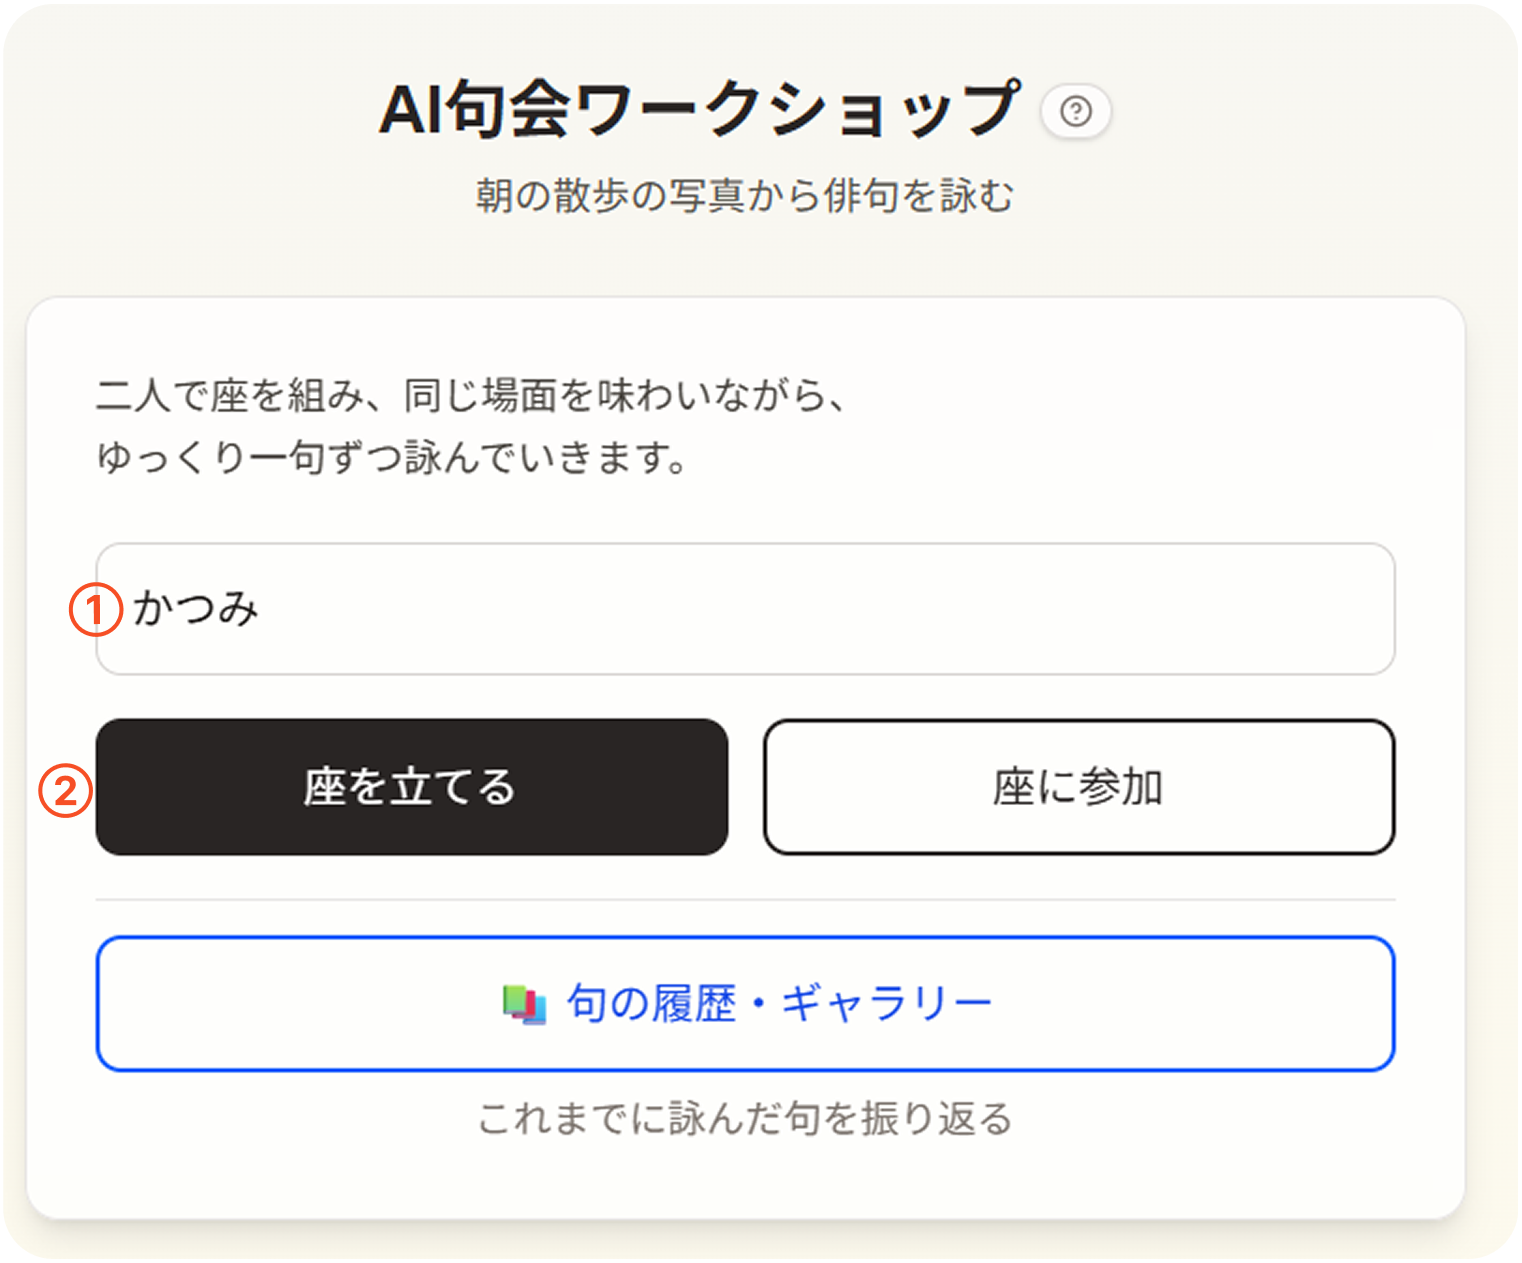
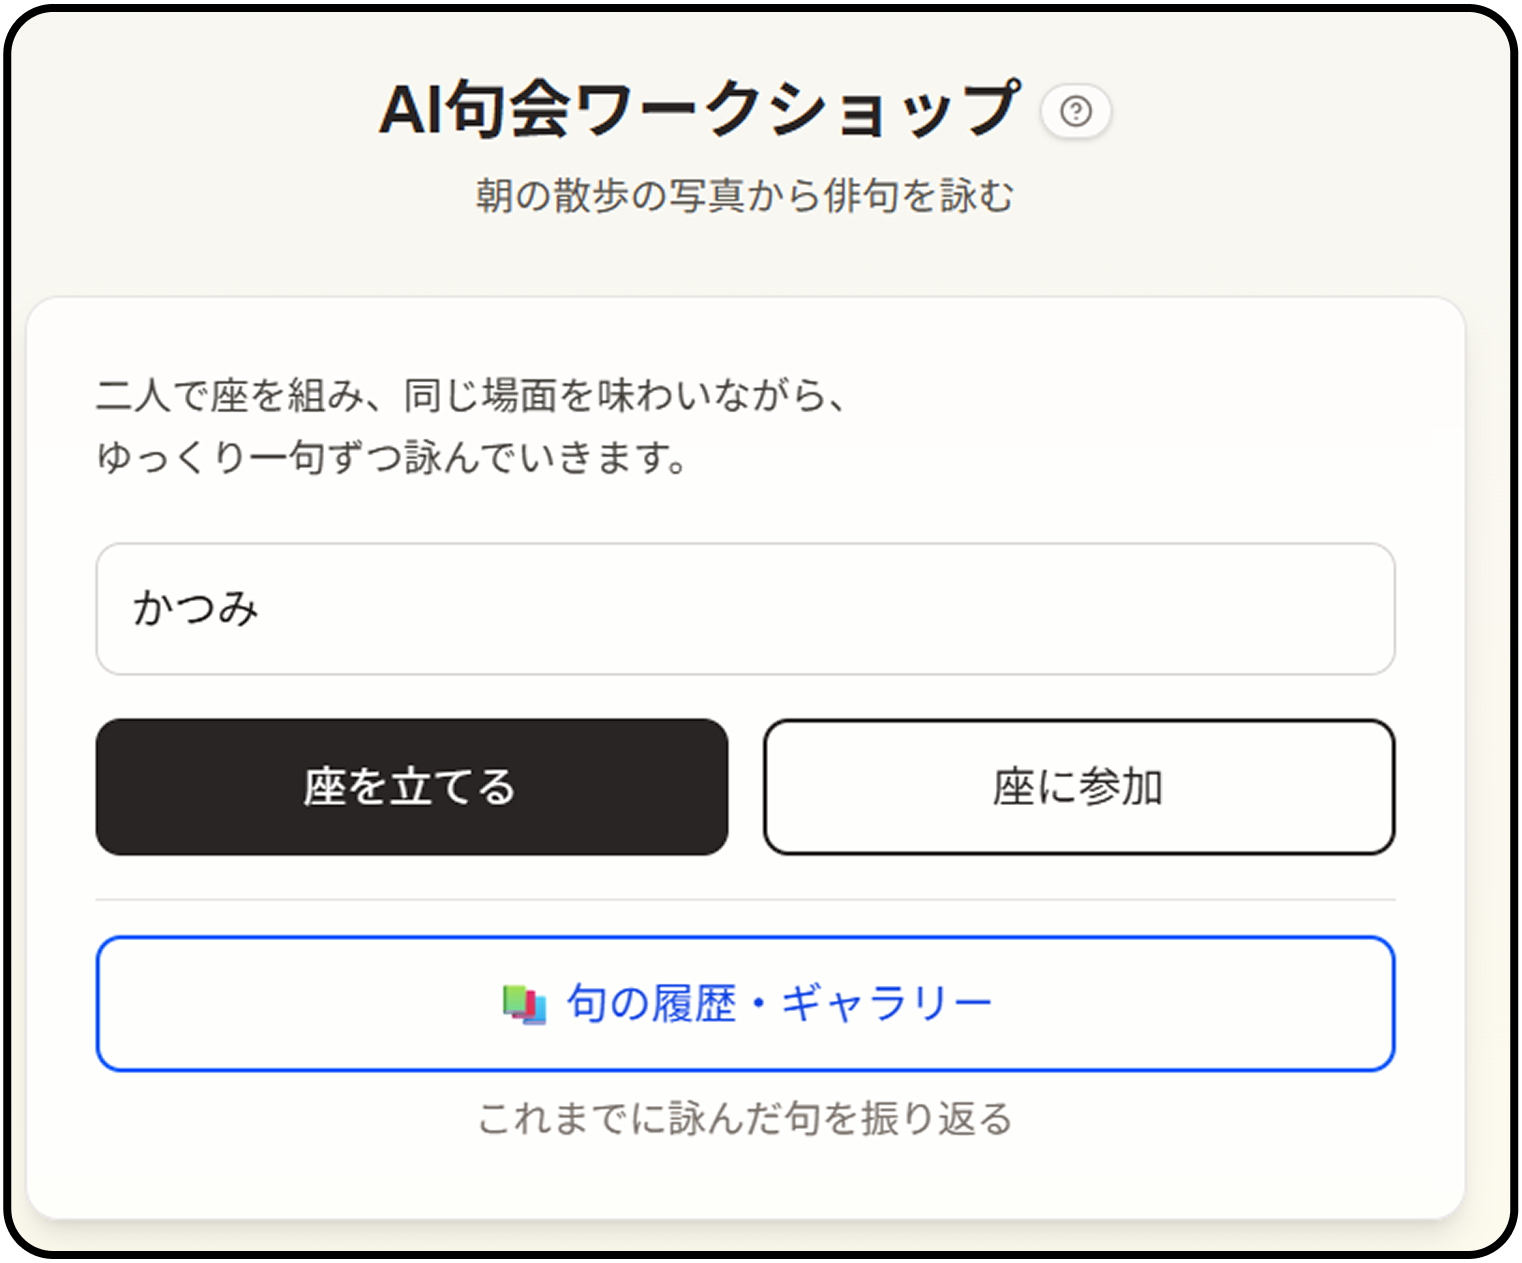
feat(help): 操作ガイドの図解をステップごとの画像に対応
- StepData に imageSrc を追加し、ホーム／ホスト待機／ゲスト参加に本番画像を指定
- HelpWizardModal のモーダル表示と印刷でステップに応じた図解を表示
- 画像未設定時は「図解は準備中です」プレースホルダを表示
- 印刷レイアウト用のプレースホルダスタイルを globals.css に追加

Changed region(s): [[0.0, 0.0, 1.0, 1.0]]

diff --git a/lib/helpSteps.ts b/lib/helpSteps.ts
@@ -68,6 +68,7 @@ export const JOIN_STEPS: StepData[] = [
 /** Step 1 / 5：写真からお題を決める（ホスト） */
 const SESSION_STEP1_HOST: StepData = {
   title: "写真からお題を決める",
+  imageSrc: "/assets/guide/step/step01_host_create-haiku.png",
   actions: [
     "① 季語（きご）を探します",
     "　写真からおすすめが出てきます",
@@ -81,6 +82,7 @@ const SESSION_STEP1_HOST: StepData = {
 /** Step 1 / 5：お題が出るまで待つ（ゲスト） */
 const SESSION_STEP1_GUEST: StepData = {
   title: "お題が出るまで待つ",
+  imageSrc: "/assets/guide/step/step01_guest_create-haiku.png",
   actions: ["① お題が出るまで、少しお待ちください", "② お題が出たら「次へ」を押します"],
   nudge: "もうすぐ句会が始まります。どんな言葉が浮かぶか楽しみですね",
 };
@@ -88,6 +90,7 @@ const SESSION_STEP1_GUEST: StepData = {
 /** Step 2 / 5：句を詠む */
 const SESSION_STEP2: StepData = {
   title: "句を詠む",
+  imageSrc: "/assets/guide/step/step02_create-haiku.png",
   actions: [
     "① 「指で書く」を押します",
     "② ゆっくり俳句を書きます",
@@ -102,6 +105,7 @@ const SESSION_STEP2: StepData = {
 /** Step 3 / 5：AIに相談 */
 const SESSION_STEP3: StepData = {
   title: "AIに相談",
+  imageSrc: "/assets/guide/step/step03_create-haiku.png",
   actions: [
     "① 表示された句を確認します",
     "　間違いがあれば直せます",
@@ -115,6 +119,7 @@ const SESSION_STEP3: StepData = {
 /** Step 4 / 5：提出する */
 const SESSION_STEP4: StepData = {
   title: "提出する",
+  imageSrc: "/assets/guide/step/step04_create-haiku.png",
   actions: [
     "① もう一度ゆっくり読みます",
     "② 気になるところがあれば直します",
@@ -126,6 +131,7 @@ const SESSION_STEP4: StepData = {
 /** Step 5 / 5：披講（鑑賞） */
 const SESSION_STEP5: StepData = {
   title: "披講（鑑賞）",
+  imageSrc: "/assets/guide/step/step05_create-haiku.png",
   actions: [
     "① みんなの句をゆっくり眺めます",
     "② 「句の履歴」から過去の作品も見られます",
